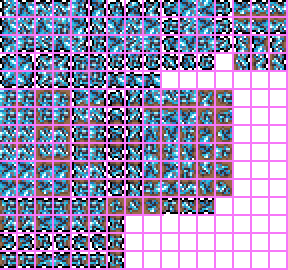
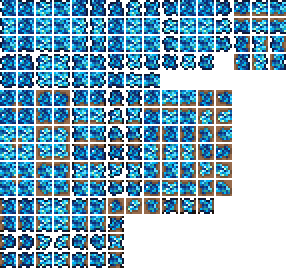
Stamina Crystla 2

diff --git a/Common/AvalonStaminaPlayer.cs b/Common/AvalonStaminaPlayer.cs
@@ -15,6 +15,7 @@ public class AvalonStaminaPlayer : ModPlayer
 {
     public static int StaminaDrainTime = 10 * 60;
 
+    public bool EnergyCrystal;
     public int FlightRestoreCooldown = 0;
     public bool FlightRestoreUnlocked = false;
     public bool ReleaseQuickStamina;
@@ -48,7 +49,8 @@ public class AvalonStaminaPlayer : ModPlayer
     {
         StaminaDrain = false;
         StamFlower = false;
-        StaminaRegen = 1000;
+        if (EnergyCrystal) { StaminaRegen = 800; StaminaRegenCost = 800; }
+        else { StaminaRegen = 1000; StaminaRegenCost = 1000; }
     }
     public void QuickStamina(int stamNeeded = 0) // todo: make stamina flower not allow you to consume stam pots that wouldn't allow you to continue using stamina
     {
@@ -554,6 +556,7 @@ public class AvalonStaminaPlayer : ModPlayer
     public override void SaveData(TagCompound tag)
     {
         tag["ExxoAvalonOrigins:Stamina"] = StatStamMax;
+        tag["ExxoAvalonOrigins:EnergyCrystal"] = EnergyCrystal;
         tag["ExxoAvalonOrigins:RocketJumpUnlocked"] = RocketJumpUnlocked;
         tag["ExxoAvalonOrigins:TeleportUnlocked"] = TeleportUnlocked;
         tag["ExxoAvalonOrigins:SwimmingUnlocked"] = SwimmingUnlocked;

diff --git a/Items/Consumables/EnergyCrystal.cs b/Items/Consumables/EnergyCrystal.cs
@@ -1,0 +1,31 @@
+using ExxoAvalonOrigins.Common;
+using Microsoft.Xna.Framework;
+using System;
+using System.Collections.Generic;
+using System.Linq;
+using System.Text;
+using System.Threading.Tasks;
+using Terraria;
+using Terraria.ID;
+using Terraria.ModLoader;
+
+namespace ExxoAvalonOrigins.Items.Consumables
+{
+    public class EnergyCrystal : ModItem
+    {
+        public override void SetStaticDefaults()
+        {
+            Item.ResearchUnlockCount = 1;
+        }
+        public override void SetDefaults()
+        {
+            Item.CloneDefaults(ItemID.AegisCrystal);
+            Item.Size = new Vector2(16, 16);
+        }
+        public override bool? UseItem(Player player)
+        {
+            player.GetModPlayer<AvalonStaminaPlayer>().EnergyCrystal = true;
+            return base.UseItem(player);
+        }
+    }
+}
